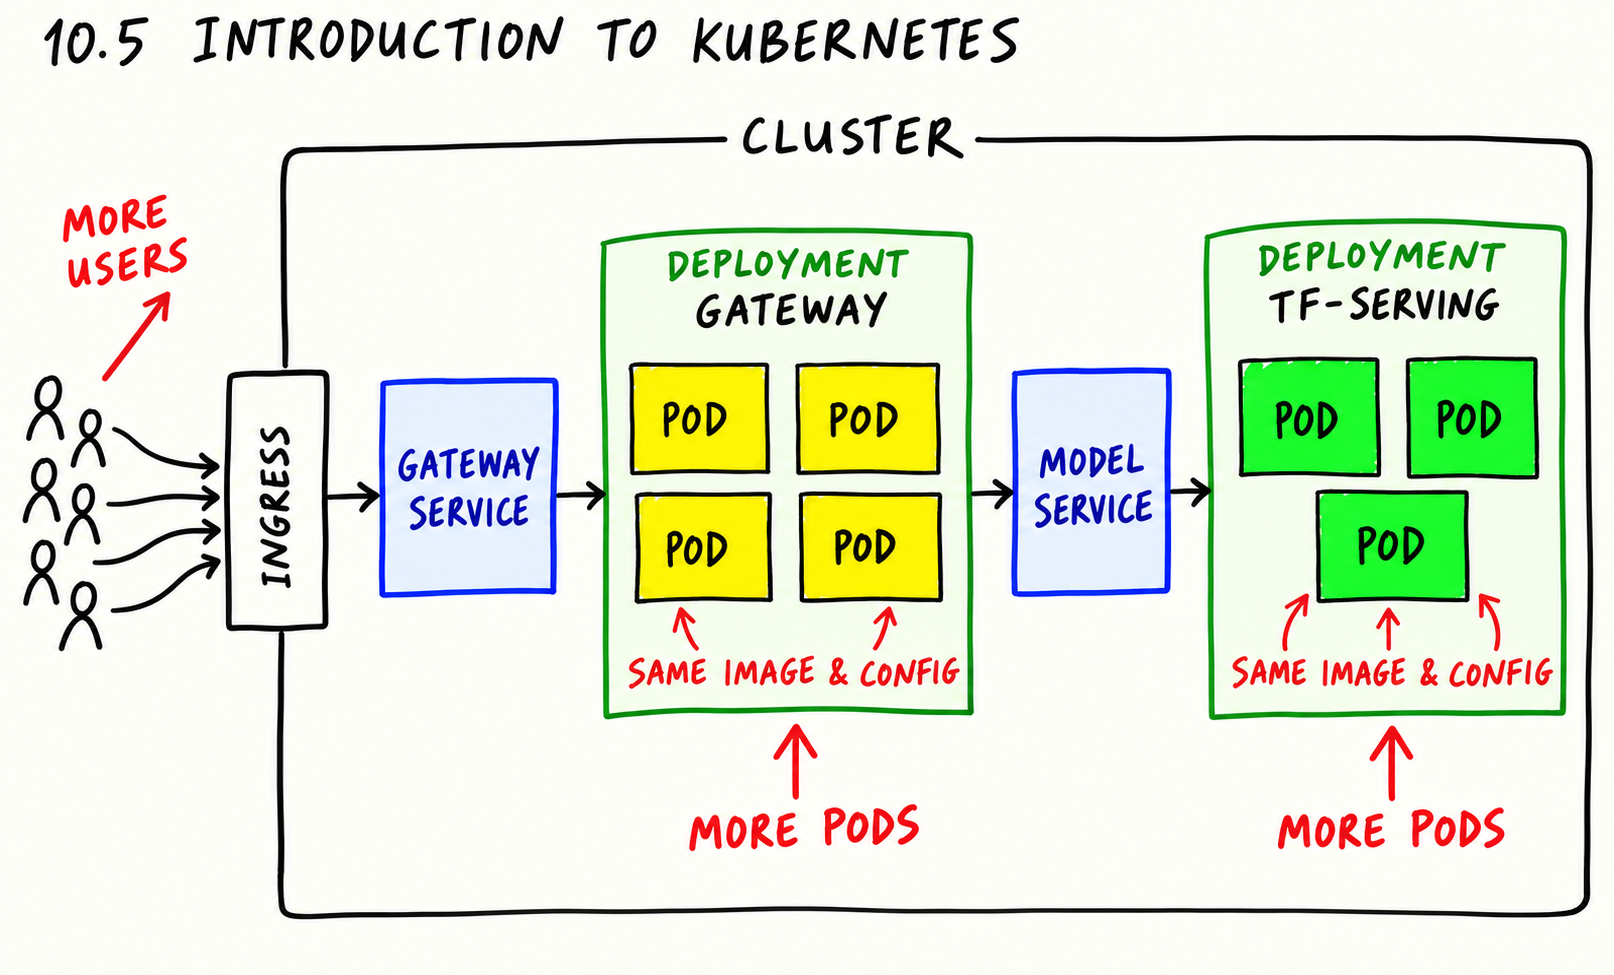
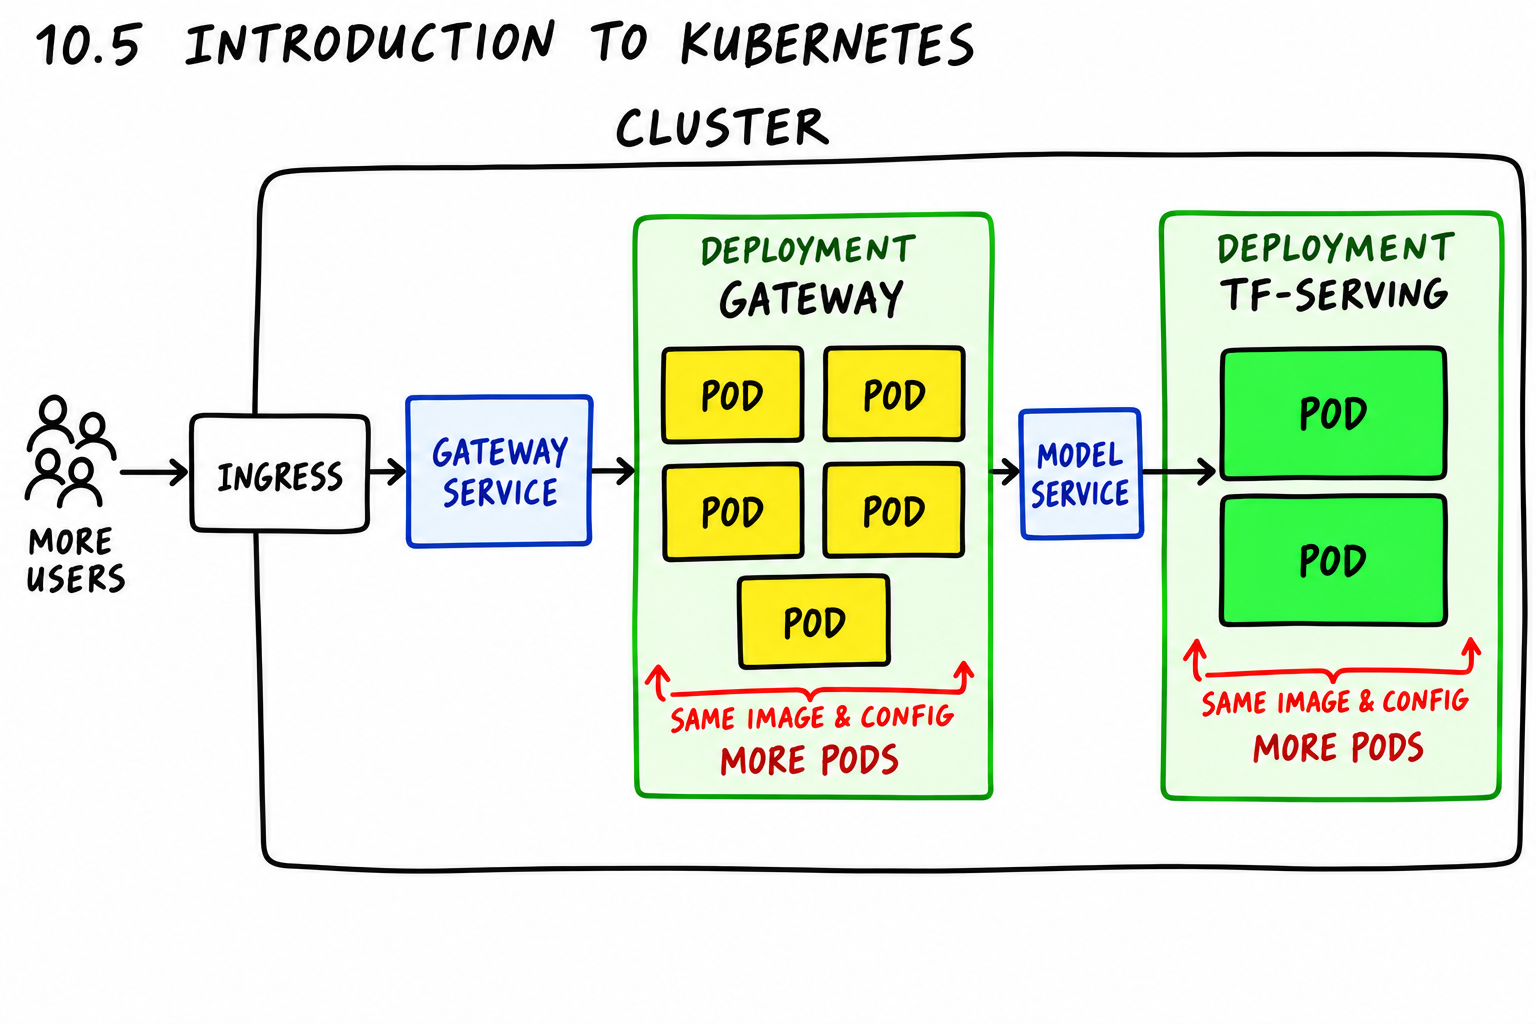
Correct Kubernetes scaling replica counts

Changed region(s): [[0.0, 0.0923, 1.0, 0.9538], [0.125, 0.0, 0.6562, 0.0615], [0.0312, 0.0, 0.0938, 0.0615]]

diff --git a/cohorts/2026/10-kubernetes/images/2026-09-08-kubernetes-imagegen-repair-provenance.md b/cohorts/2026/10-kubernetes/images/2026-09-08-kubernetes-imagegen-repair-provenance.md
@@ -39,8 +39,33 @@ in each published output; the URN is recorded below.
[6 lines of base64/hex data omitted]
+
+## Corrected scaling topology — 2026-09-09
+
+The previous scaling redraw is superseded because it used the wrong concrete
+replica counts. The source-of-truth lesson text says: “five instances of the
+gateway on CPU machines and two instances of TensorFlow Serving on GPU
+machines” (`01-overview.md:77-81`). The replacement below was generated from
+the original non-crisp JPG and the retained bounded crop, without using the
+incorrect redraw as an input.
+
+| Target | Original JPG SHA-256 | Bounded crop SHA-256 | Final SHA-256 | Final size | Method, semantic repair, and C2PA |
+| --- | --- | --- | --- | --- | --- |
[1 lines of base64/hex data omitted]
+
+Validation details for the replacement:
+
+- Native render: `1536×1024`; simulated lesson render: `608×405`.
+- Targeted OCR of each pod interior returned `POD` for all five Gateway
+  pods and both TF-Serving pods at both native and simulated lesson sizes
+  (`7/7` labels at each size).
+- Visual and color-component checks independently counted five yellow
+  Gateway boxes and two green TF-Serving boxes; no additional pod boxes were
+  present.
+- Native and 608px visual inspection confirmed the single request path and
+  found no face, webcam, browser, cursor, playback, or selection overlays.
 
 ### Checkpoint status
 
